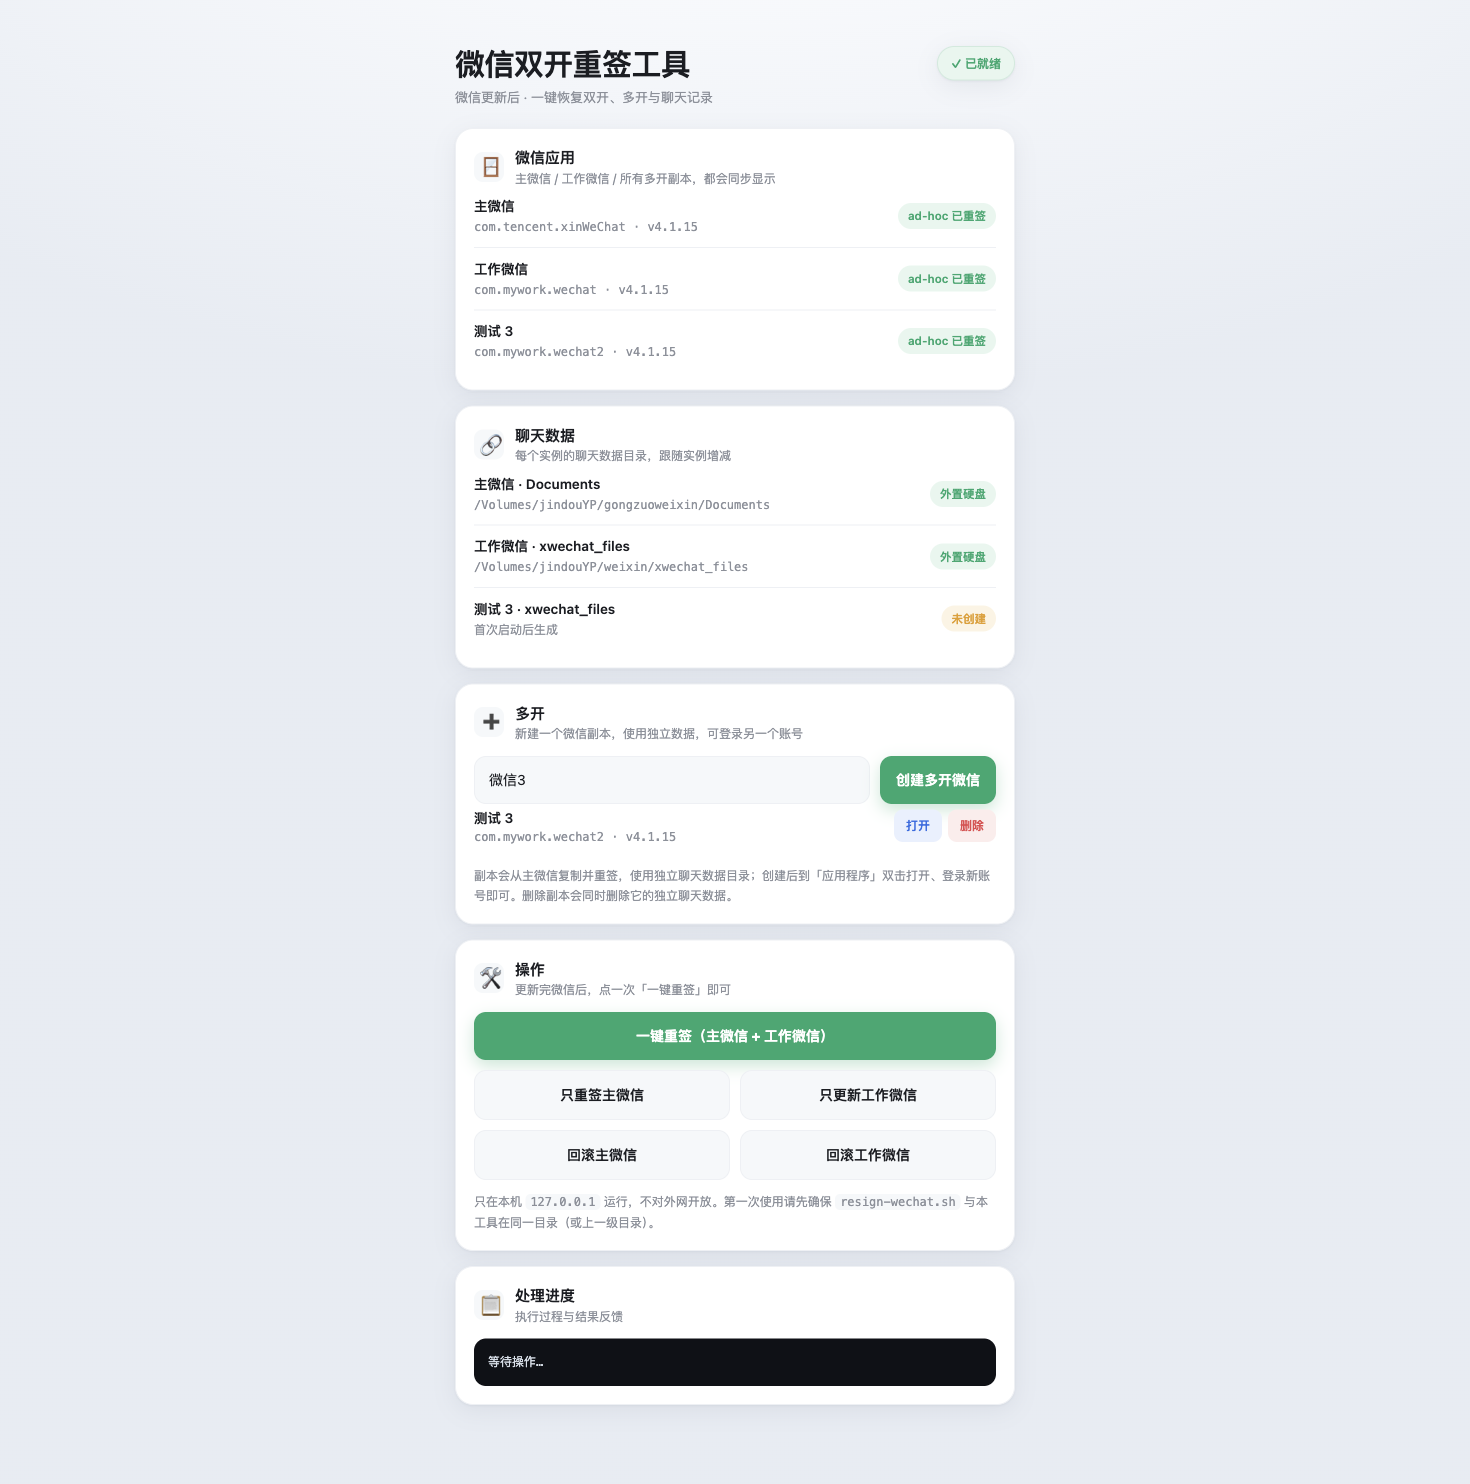
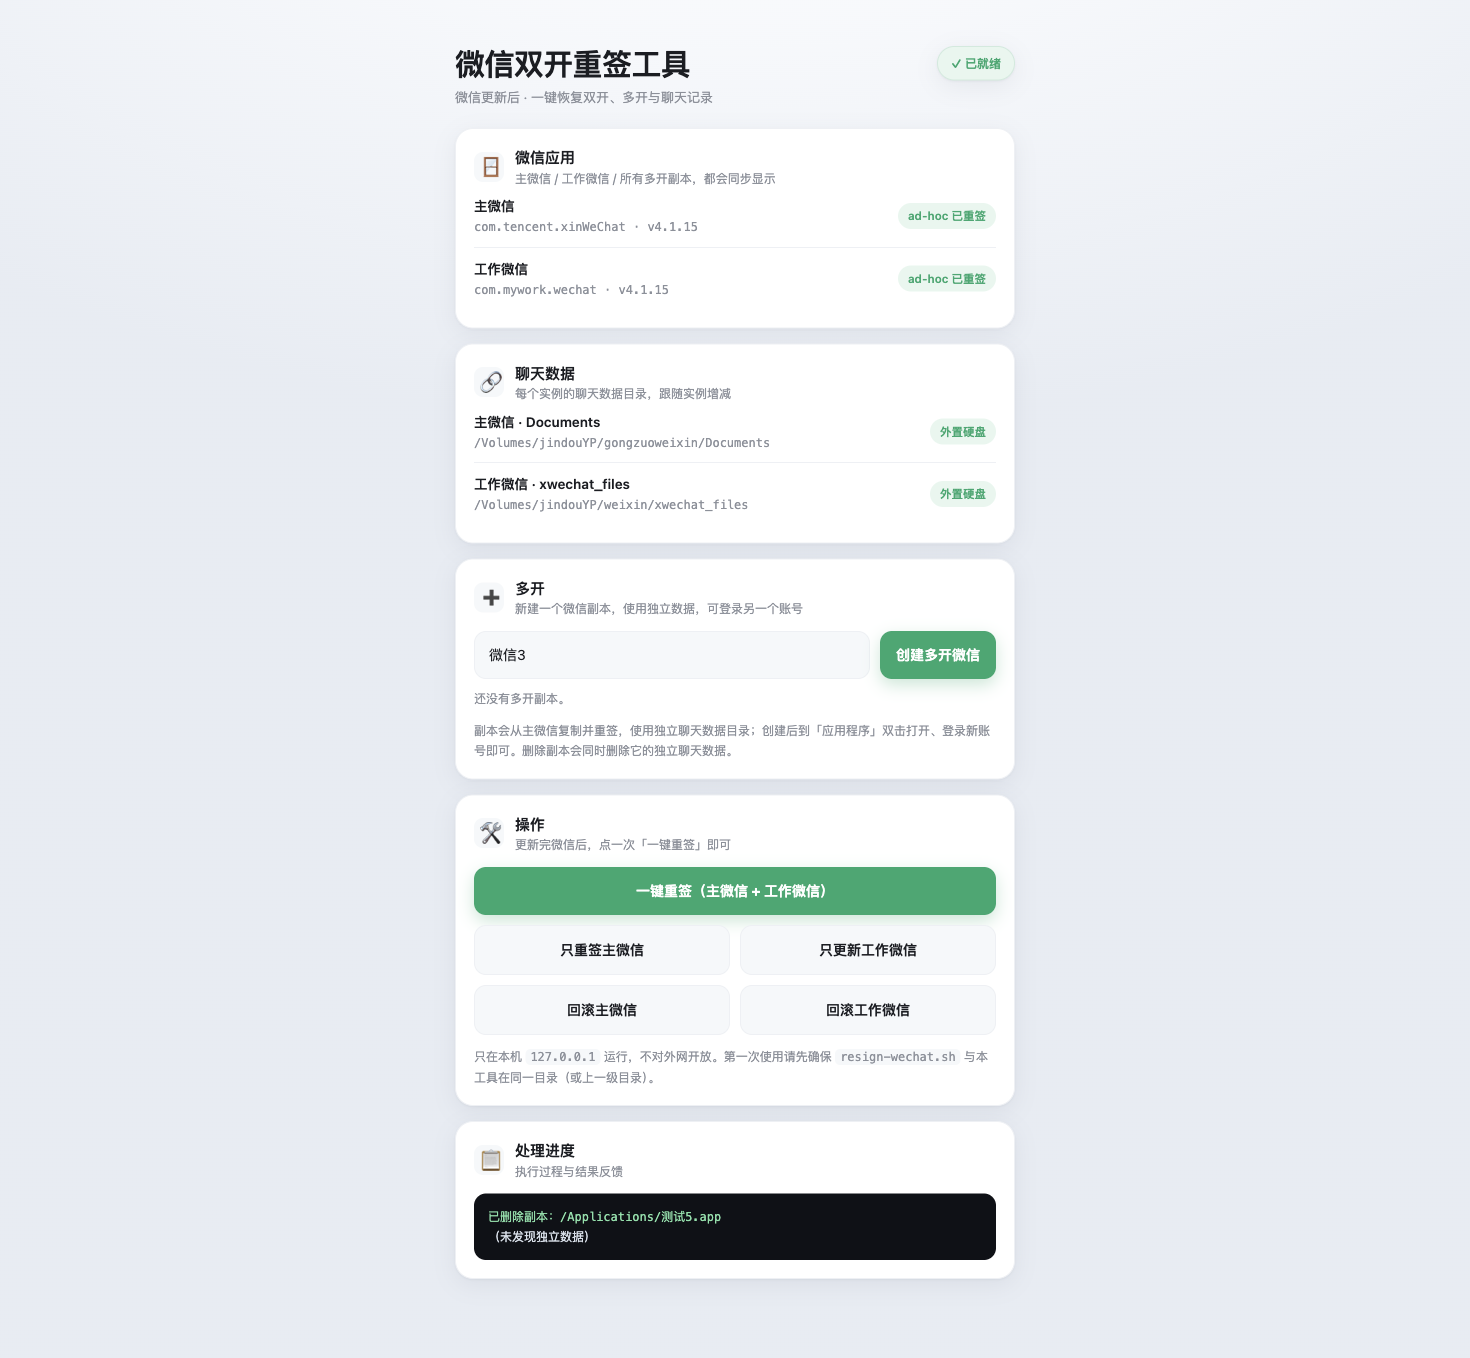
fix: 删除确认改用页面内弹窗（WKWebView 下 confirm 不生效）；修复删除按钮无反应

Changed region(s): [[0.3061, 0.0309, 0.7041, 0.9588], [0.6429, 0.0309, 0.6735, 0.0619]]

diff --git a/index.html b/index.html
@@ -67,6 +67,12 @@
   .mini-btn:hover{background:#dbe7fd}
   .mini-btn.danger{background:var(--red-l);color:var(--red)}
   .mini-btn.danger:hover{background:#fbd9da}
+  .modal-mask{position:fixed;inset:0;background:rgba(0,0,0,.35);display:flex;align-items:center;justify-content:center;z-index:100;padding:22px}
+  .modal{background:#fff;border-radius:16px;padding:20px;max-width:360px;width:100%;box-shadow:0 20px 60px rgba(0,0,0,.25);border:1px solid var(--line)}
+  .modal-title{font-weight:700;font-size:16px;margin-bottom:8px}
+  .modal-body{font-size:13px;color:var(--muted);line-height:1.65;white-space:pre-wrap}
+  .modal-actions{display:flex;justify-content:flex-end;gap:8px;margin-top:18px}
+  .modal-actions .btn{padding:10px 16px;font-size:13px;box-shadow:none}
   .log{background:#0f1117;color:#d7e0ea;border-radius:12px;padding:14px;font-family:ui-monospace,SFMono-Regular,Menlo,monospace;font-size:12px;line-height:1.6;max-height:300px;overflow:auto;white-space:pre-wrap;word-break:break-all;margin-top:14px}
   .log .ok{color:#7ee2a8}.log .err{color:#ff8b8b}.log .dim{color:#8b96a5}
   .hint{font-size:12px;color:var(--muted);margin-top:12px;line-height:1.65}
@@ -124,6 +130,18 @@
     <pre class="log" id="log">等待操作…</pre>
   </section>
 </div>
+
+<div id="modal" class="modal-mask" style="display:none">
+  <div class="modal">
+    <div class="modal-title" id="modal-title">确认</div>
+    <div class="modal-body" id="modal-body"></div>
+    <div class="modal-actions">
+      <button class="btn ghost" onclick="closeModal(false)">取消</button>
+      <button class="btn primary" onclick="closeModal(true)">确定</button>
+    </div>
+  </div>
+</div>
+
 <script>
 const $ = (id) => document.getElementById(id);
 
@@ -131,6 +149,20 @@ function esc(s){
   return String(s == null ? '' : s).replace(/[&<>"]/g, function(c){
     return {'&':'&amp;','<':'&lt;','>':'&gt;','"':'&quot;'}[c];
   });
+}
+
+let modalResolve = null;
+function askConfirm(title, body){
+  return new Promise(function(resolve){
+    modalResolve = resolve;
+    $('modal-title').textContent = title || '确认';
+    $('modal-body').textContent = body || '';
+    $('modal').style.display = 'flex';
+  });
+}
+function closeModal(ok){
+  $('modal').style.display = 'none';
+  if (modalResolve) { const r = modalResolve; modalResolve = null; r(ok); }
 }
 
 function sigInfo(sig){
@@ -295,7 +327,8 @@ async function createClone(){
 }
 
 async function deleteClone(bid, label){
-  if (!confirm('确定删除副本「' + label + '」？\n会同时删除它的应用和独立聊天数据，不可恢复。')) return;
+  const yes = await askConfirm('确认删除', '确定删除副本「' + label + '」？\n会同时删除它的应用和独立聊天数据，不可恢复。');
+  if (!yes) return;
   setBusy(true);
   $('log').innerHTML = '正在删除「' + esc(label) + '」…';
   try {

diff --git a/native/main.swift b/native/main.swift
@@ -114,6 +114,7 @@ final class AppDelegate: NSObject, NSApplicationDelegate {
 
         let config = WKWebViewConfiguration()
         webView = WKWebView(frame: rect, configuration: config)
+        webView.uiDelegate = self
         if let url = URL(string: "http://127.0.0.1:\(port)/") {
             webView.load(URLRequest(url: url))
         }
@@ -128,6 +129,32 @@ final class AppDelegate: NSObject, NSApplicationDelegate {
 
     func applicationWillTerminate(_ notification: Notification) {
         server?.terminate()
+    }
+}
+
+extension AppDelegate: WKUIDelegate {
+    func webView(_ webView: WKWebView,
+                 runJavaScriptConfirmPanelWithMessage message: String,
+                 initiatedByFrame frame: WKFrameInfo,
+                 completionHandler: @escaping (Bool) -> Void) {
+        let alert = NSAlert()
+        alert.messageText = "确认"
+        alert.informativeText = message
+        alert.addButton(withTitle: "确定")
+        alert.addButton(withTitle: "取消")
+        completionHandler(alert.runModal() == .alertFirstButtonReturn)
+    }
+
+    func webView(_ webView: WKWebView,
+                 runJavaScriptAlertPanelWithMessage message: String,
+                 initiatedByFrame frame: WKFrameInfo,
+                 completionHandler: @escaping () -> Void) {
+        let alert = NSAlert()
+        alert.messageText = "提示"
+        alert.informativeText = message
+        alert.addButton(withTitle: "好")
+        alert.runModal()
+        completionHandler()
     }
 }
 
